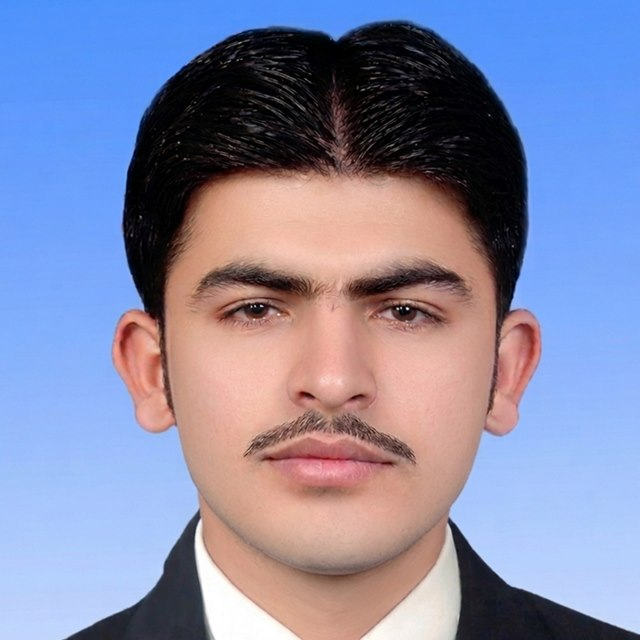
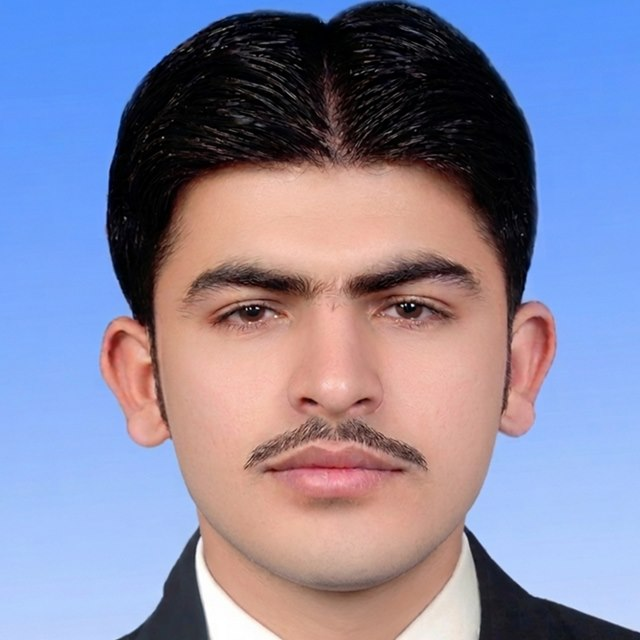
Straighten the profile photo further

diff --git a/index.html b/index.html
@@ -759,7 +759,7 @@ html.modal-open,html:has(dialog[open]){overflow:hidden}
       </div>
       <div class="hero-photo">
         <div class="avatar-wrap">
-          <img class="avatar" src="img/profile.jpg?v=2" width="560" height="560" alt="Portrait of Muhammad Yaseen Khan" fetchpriority="high">
+          <img class="avatar" src="img/profile.jpg?v=3" width="560" height="560" alt="Portrait of Muhammad Yaseen Khan" fetchpriority="high">
         </div>
         <button class="hero-cert" type="button" data-cert-open aria-label="View Oracle certificate full size">
[1 lines of base64/hex data omitted]
